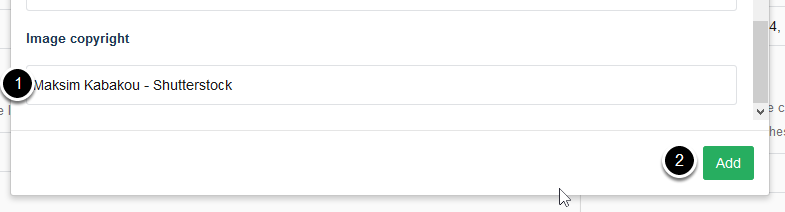
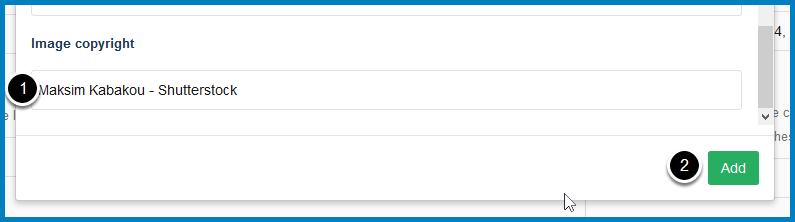
MSD Teams
Files with information about image updated - borders put back on images

Changed region(s): [[0.0, 0.0, 1.0, 1.0]]

diff --git a/content/add-an-image-to-a-column-page.rst b/content/add-an-image-to-a-column-page.rst
@@ -8,8 +8,8 @@ Edit page
 
 .. image:: images/add-an-image-to-a-column-page/edit-page.png
    :alt: 
-   :height: 254px
-   :width: 380px
+   :height: 264px
+   :width: 390px
    :align: center
 
 
@@ -20,8 +20,8 @@ Media section
 
 .. image:: images/add-an-image-to-a-column-page/media-section.png
    :alt: 
-   :height: 298px
-   :width: 537px
+   :height: 308px
+   :width: 547px
    :align: center
 
 
@@ -32,17 +32,17 @@ Upload image
 
 .. image:: images/add-an-image-to-a-column-page/upload-image.png
    :alt: 
-   :height: 273px
-   :width: 429px
+   :height: 283px
+   :width: 439px
    :align: center
 
 
-Click **Upload **to open the image upload box. 
+Click **Upload** to open the image upload box.
 
 .. image:: images/add-an-image-to-a-column-page/aae5c554-6a8f-45b4-9f64-2e16d9bad6fc.png
    :alt: 
-   :height: 243px
-   :width: 774px
+   :height: 253px
+   :width: 790px
    :align: center
 
 
@@ -51,8 +51,8 @@ Click **Upload **to open the image upload box.
 
 .. image:: images/add-an-image-to-a-column-page/5ea787de-bcc6-4220-a702-5b04e0ae1eee.png
    :alt: 
-   :height: 155px
-   :width: 790px
+   :height: 165px
+   :width: 800px
    :align: center
 
 
@@ -60,8 +60,8 @@ Scroll down the image upload box. Enter some descriptive text in the summary box
 
 .. image:: images/add-an-image-to-a-column-page/52024fbb-f902-431c-9ba2-261378aae64f.png
    :alt: 
-   :height: 212px
-   :width: 785px
+   :height: 222px
+   :width: 795px
    :align: center
 
 
@@ -70,8 +70,8 @@ Scroll down the image upload box. Enter some descriptive text in the summary box
 
 .. image:: images/add-an-image-to-a-column-page/6b178454-8dbd-4458-8035-a83cde42d8e3.png
    :alt: 
-   :height: 435px
-   :width: 782px
+   :height: 445px
+   :width: 792px
    :align: center
 
 
@@ -83,8 +83,8 @@ Save
 
 .. image:: images/add-an-image-to-a-column-page/save.png
    :alt: 
-   :height: 125px
-   :width: 313px
+   :height: 135px
+   :width: 323px
    :align: center
 
 
@@ -95,8 +95,8 @@ Your page
 
 .. image:: images/add-an-image-to-a-column-page/your-page.png
    :alt: 
-   :height: 574px
-   :width: 993px
+   :height: 584px
+   :width: 1003px
    :align: center
 
 

diff --git a/content/edit-a-column-page.rst b/content/edit-a-column-page.rst
@@ -32,8 +32,8 @@ Make changes
 
 .. image:: images/edit-a-column-page/make-changes.png
    :alt: 
-   :height: 1097px
-   :width: 837px
+   :height: 1107px
+   :width: 847px
    :align: center
 
 
